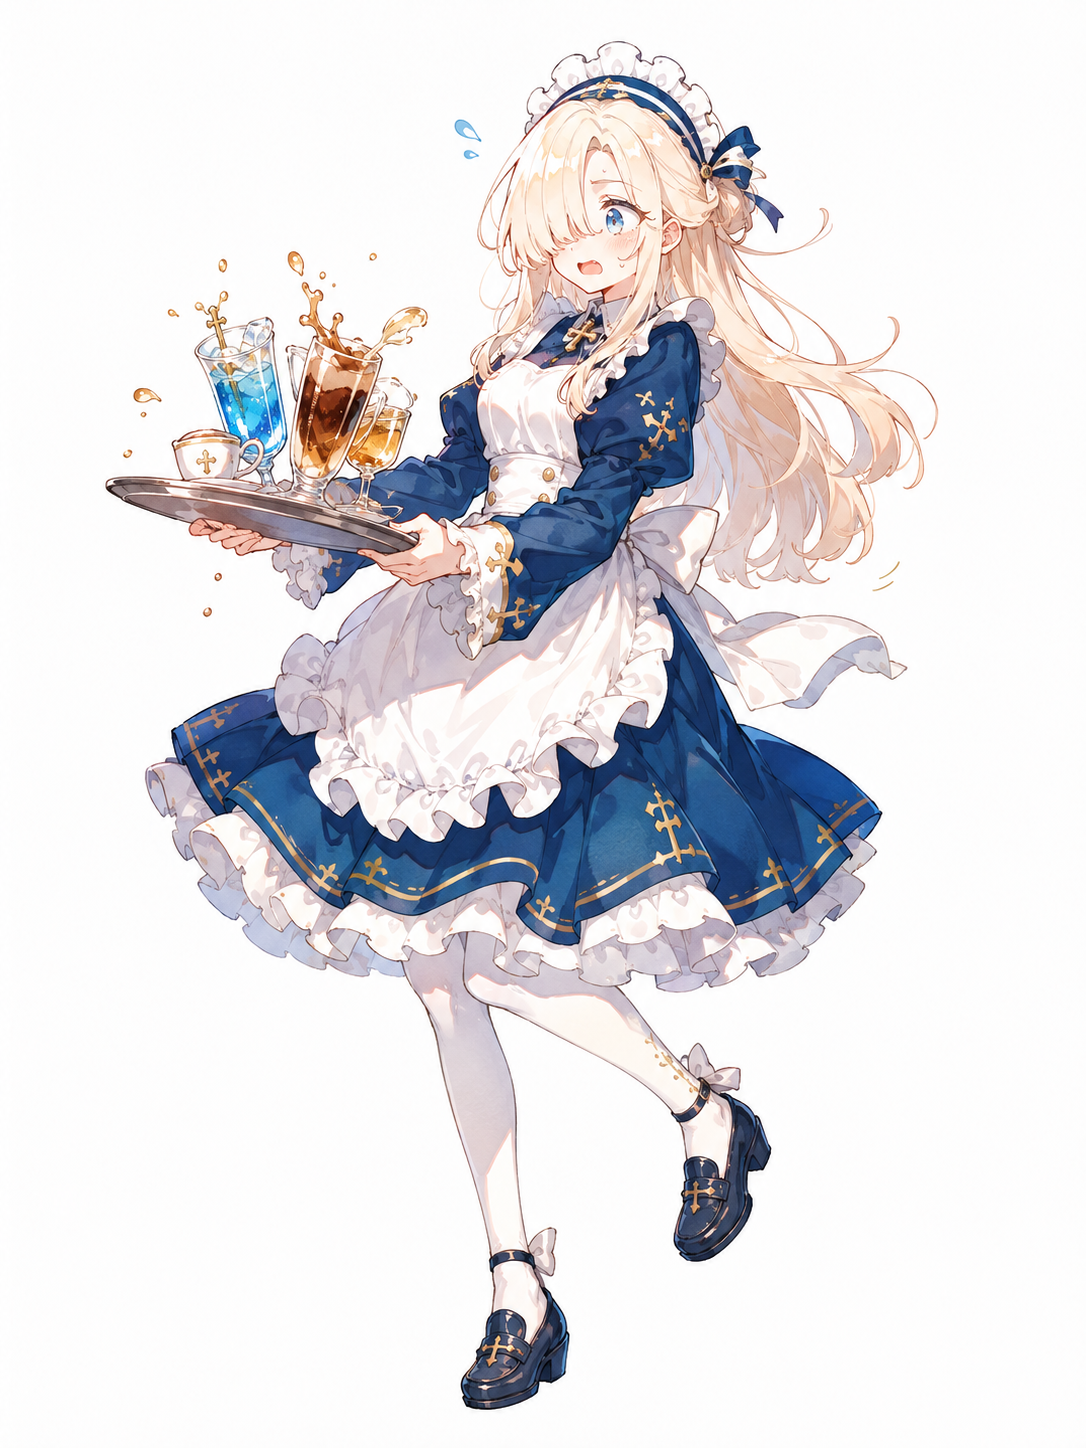
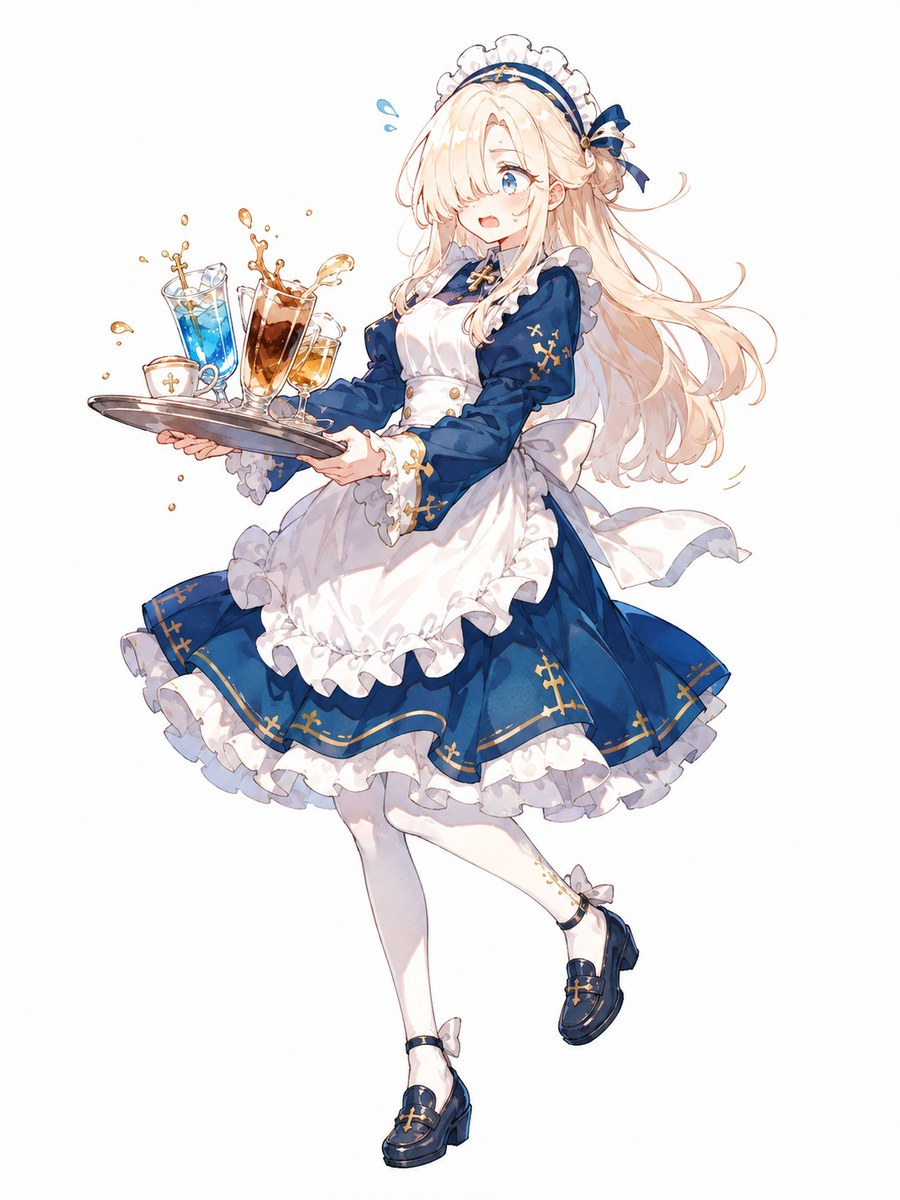
fix: 특별한 사진 잘림 해결 및 용량 최적화
폴라로이드 액자가 4:3으로 고정되어 있고 object-fit: cover 라서
세로 사진의 위아래가 잘려나가던 문제 수정. 액자가 사진 비율을
따라가고, 화면 크기에 맞춰서만 축소되도록 변경.

이미지도 2189KB -> 153KB (900x1200, q88)로 재인코딩.
뷰어가 최대 550px로 표시하므로 고해상도 화면에서도 여유가 있다.

diff --git a/app/components/CloverView.tsx b/app/components/CloverView.tsx
@@ -88,20 +88,25 @@ function PhotoViewer({ item, mob, onClose }: {
         padding: mob ? "12px 12px 46px" : "18px 18px 66px",
         borderRadius: 3,
         boxShadow: "0 30px 80px rgba(0,0,0,0.7), 0 0 0 1px rgba(255,255,255,0.08)",
-        maxWidth: 560, width: "100%", cursor: "default",
+        width: "fit-content", maxWidth: "94vw", cursor: "default",
         animation: "cvFrame 0.9s cubic-bezier(0.2,0.9,0.25,1) both",
       }}>
         <div style={{
-          position: "relative", width: "100%", aspectRatio: "4 / 3",
+          position: "relative",
           background: "#161310", overflow: "hidden",
           display: "flex", alignItems: "center", justifyContent: "center",
+          // 사진이 없을 때만 자리를 잡아둔다
+          ...(item.photo && !imgErr ? {} : { width: mob ? 240 : 300, aspectRatio: "4 / 3" }),
         }}>
           {item.photo && !imgErr ? (
             <img
               src={item.photo} alt={item.name}
               onError={() => setImgErr(true)}
               style={{
-                width: "100%", height: "100%", objectFit: "cover", display: "block",
+                display: "block", width: "auto", height: "auto",
+                // 잘라내지 않고 전체를 보여준다 — 화면에 맞춰서만 줄인다
+                maxWidth:  mob ? "76vw" : "min(520px, 72vw)",
+                maxHeight: mob ? "56vh" : "64vh",
                 animation: "cvDevelop 2.4s ease-out both",
               }}
             />
